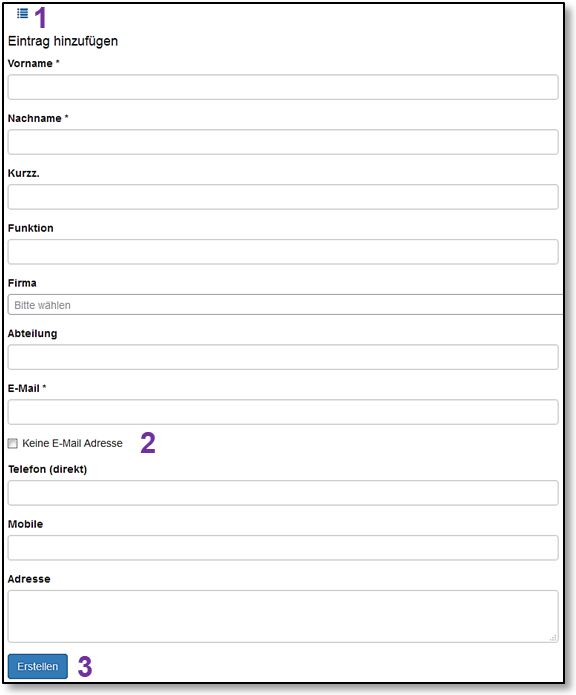
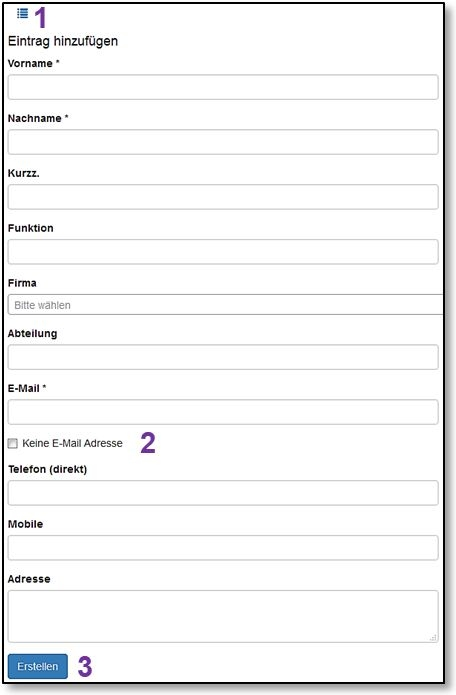
[German] Adressliste
Div Anpassungen bei Printscreens

Changed region(s): [[0.0, 0.0, 0.2763, 0.9971], [0.9518, 0.0, 0.9825, 0.9971], [0.307, 0.6043, 0.3377, 0.6647]]

diff --git a/german/CUBEPA_Handbuch.tex b/german/CUBEPA_Handbuch.tex
@@ -84,7 +84,7 @@
 \HRule \\[1.5cm]
 
 \textsf{\Large Benutzerhandbuch}\\[0.5cm] % Major heading such as course name
-\textsf{\large Version 2.11 / 09.10.2018}\\[0.5cm] % Minor heading such as course title
+\textsf{\large Version 2.11 / 10.10.2018}\\[0.5cm] % Minor heading such as course title
 
 
 \pagebreak
@@ -100,7 +100,7 @@
 \begin{tabular}{lp{12cm}}
 Auftragsnummer & BE.N.\\
 Auftraggeber & .\\
-Datum & 09.10.2018\\
+Datum & 10.10.2018\\
 Version & 2.11\\
 Autoren & Dieter Schopfer, Benjamin Nyffenegger, Rayane Zahreddine, Adrian Johner, Markus Schafroth, Simon Heimberg\\
 Freigabe & Markus Schafroth\\
